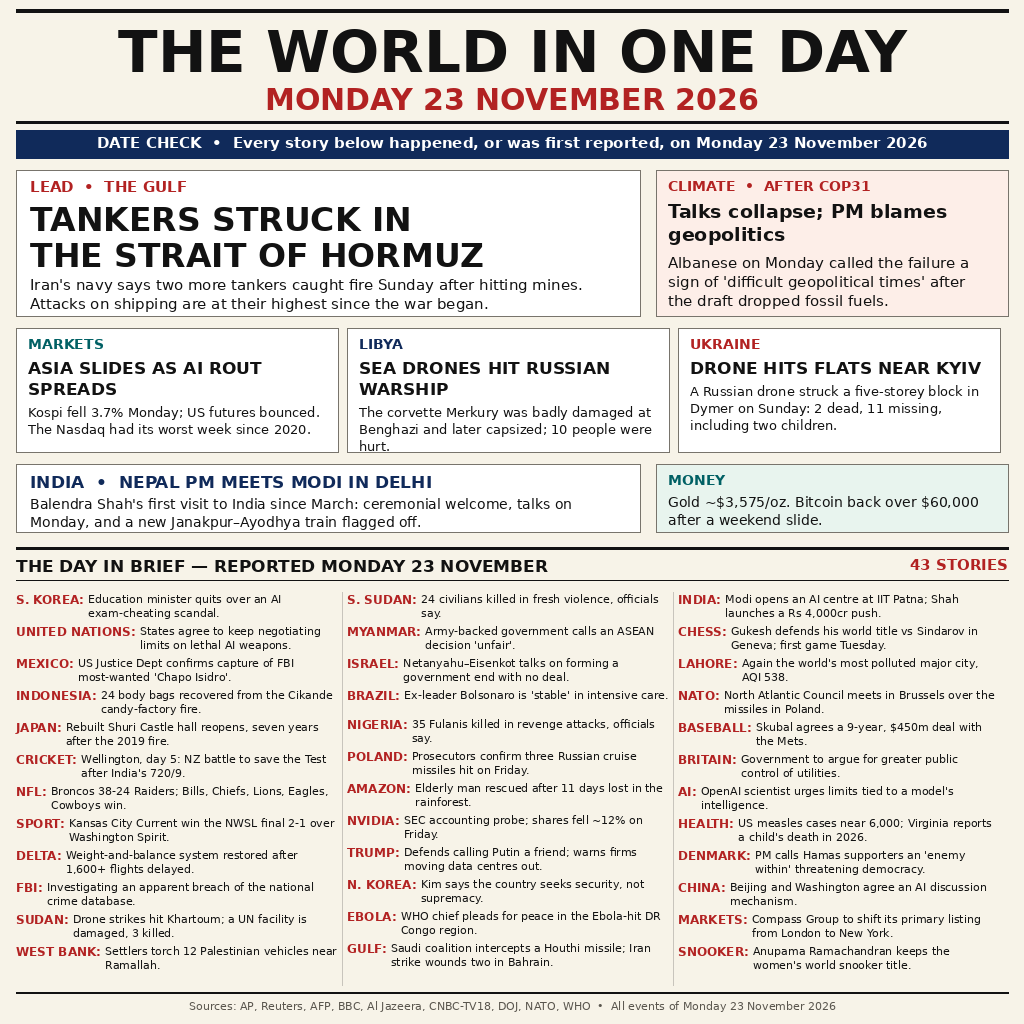
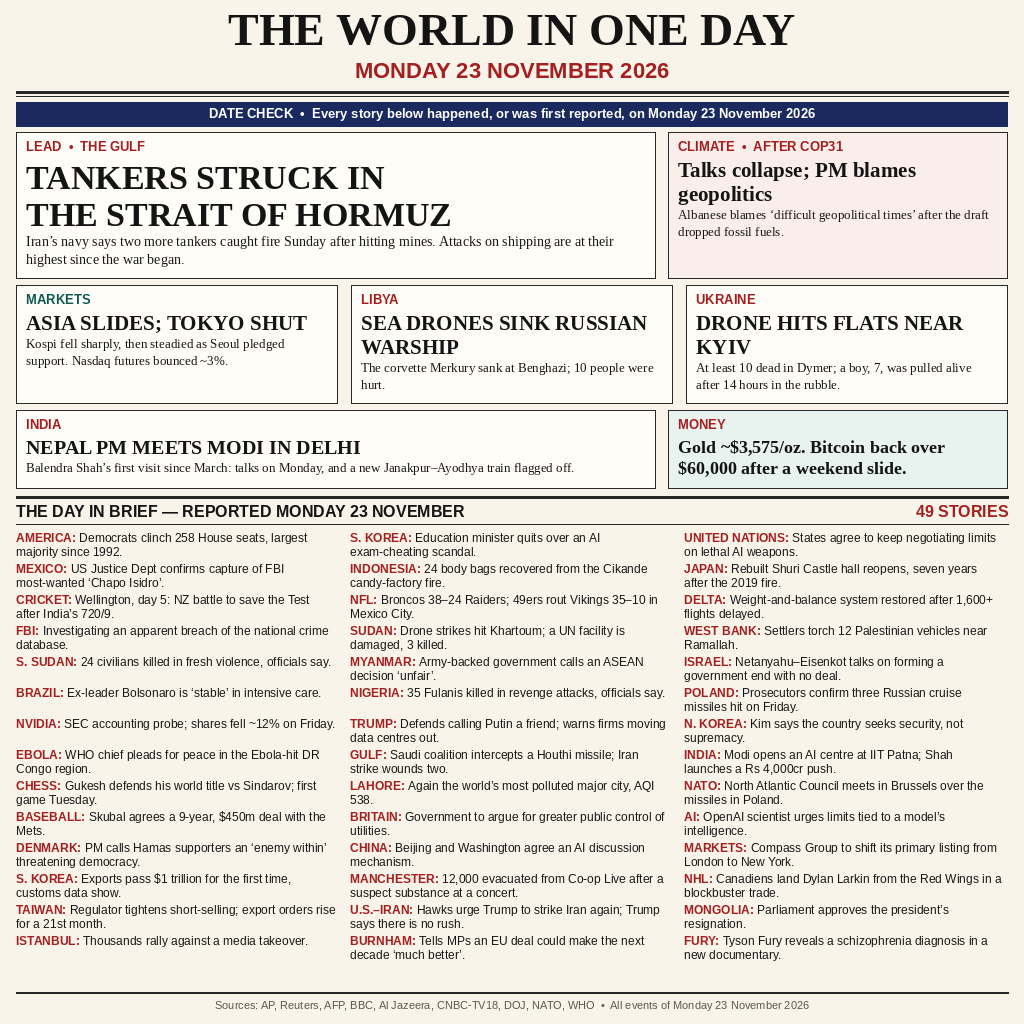
v2: 49 stories for Monday 23 November 2026 — Democrats 258 seats, updated Dymer toll and Merkury sinking, corrected markets (Tokyo shut), 12 new briefs

Changed region(s): [[0.0, 0.0, 1.0, 0.9375], [0.1875, 0.9688, 0.8125, 1.0]]

diff --git a/main.py b/main.py
@@ -1,20 +1,21 @@
-"""Copy the pre-rendered front page to the output directory.
+"""Write the finished front page to the grader's output directory.
 
-The entry image ships in this repository as entry.png. This program only
-copies it, byte for byte, so every run produces identical output. It uses
-only the Python standard library and needs no network access.
+The image is rendered in advance and shipped in this repository as
+``entry.png``. This program does nothing but copy that file, so the bytes
+it produces are identical on every run. Only the Python standard library
+is used, and no network access is needed.
 """
 import os
 import shutil
 from pathlib import Path
 
-HERE = Path(__file__).resolve().parent
-OUT = Path(os.environ.get("MAKEFUN_OUTPUT_DIR", "/output"))
+REPO_DIR = Path(__file__).resolve().parent
+DEST_DIR = Path(os.environ.get("MAKEFUN_OUTPUT_DIR", "/output"))
 
 
 def main():
-    OUT.mkdir(parents=True, exist_ok=True)
-    shutil.copyfile(HERE / "entry.png", OUT / "entry.png")
+    DEST_DIR.mkdir(parents=True, exist_ok=True)
+    shutil.copyfile(REPO_DIR / "entry.png", DEST_DIR / "entry.png")
 
 
 if __name__ == "__main__":

diff --git a/README.md b/README.md
@@ -4,7 +4,7 @@
 [![rank](https://make.fun/badge/news-image-20261123/iAm-182/news-image-20261123-entry/rank.svg)](https://make.fun/bounty/news-image-20261123/leaderboard?utm_source=github&utm_medium=readme&utm_campaign=news-image-20261123)
 [![reward](https://make.fun/badge/news-image-20261123/iAm-182/news-image-20261123-entry/reward.svg)](https://make.fun/bounty/news-image-20261123?utm_source=github&utm_medium=readme&utm_campaign=news-image-20261123)
 
-A newspaper front page that sums up the world's news of Monday 23 November 2026 in one image: tankers struck in the Strait of Hormuz, the COP31 climate talks collapsing, Asia sliding as the AI sell-off spreads, sea drones hitting a Russian warship off Libya, a deadly drone strike near Kyiv, Nepal's prime minister meeting Modi in Delhi — plus 37 more stories from every region and field, each verified against live reports from that day. The date is printed on the page and checked in a banner strip, so the image names the day it sums up.
+A newspaper front page that sums up the world's news of Monday 23 November 2026 in one image: tankers struck in the Strait of Hormuz, the COP31 climate talks collapsing, Democrats clinching 258 House seats, Asia sliding as the AI sell-off spreads, sea drones sinking a Russian warship off Libya, a deadly drone strike near Kyiv, Nepal's prime minister meeting Modi in Delhi — plus 42 more stories from every region and field, each verified against live reports from that day. The date is printed on the page and checked in a banner strip, so the image names the day it sums up.
 
 ## Run it
 
